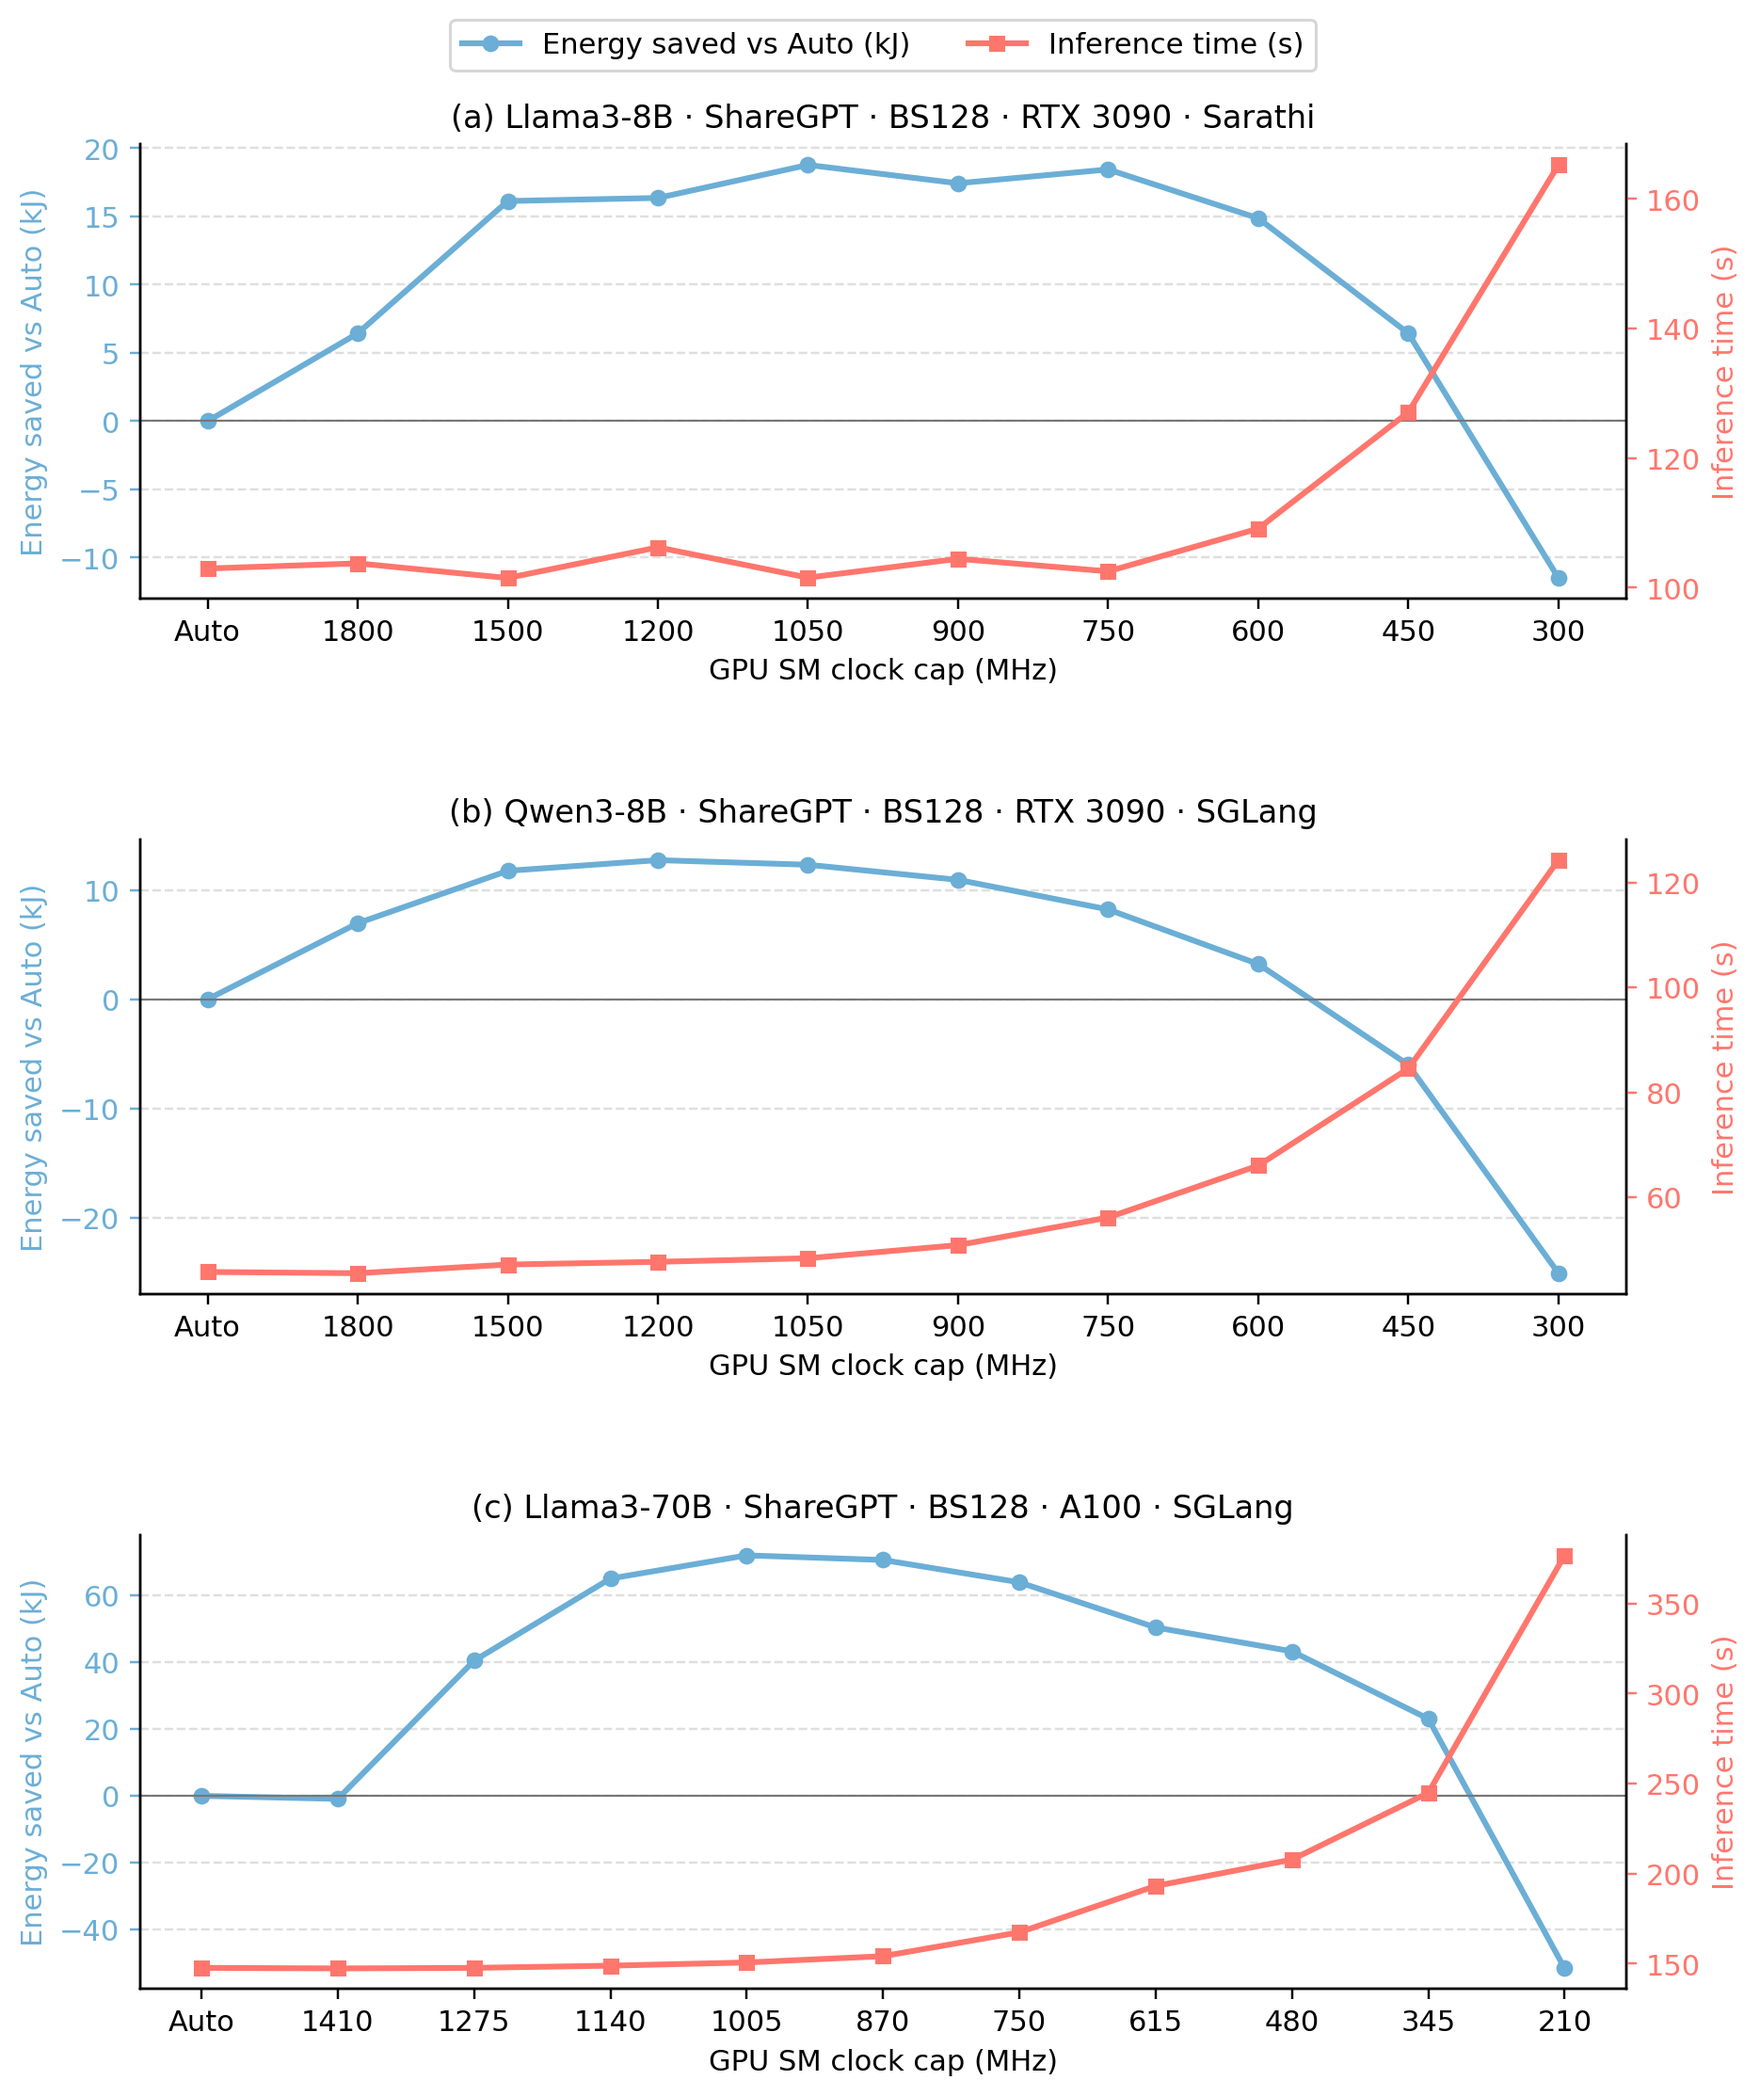
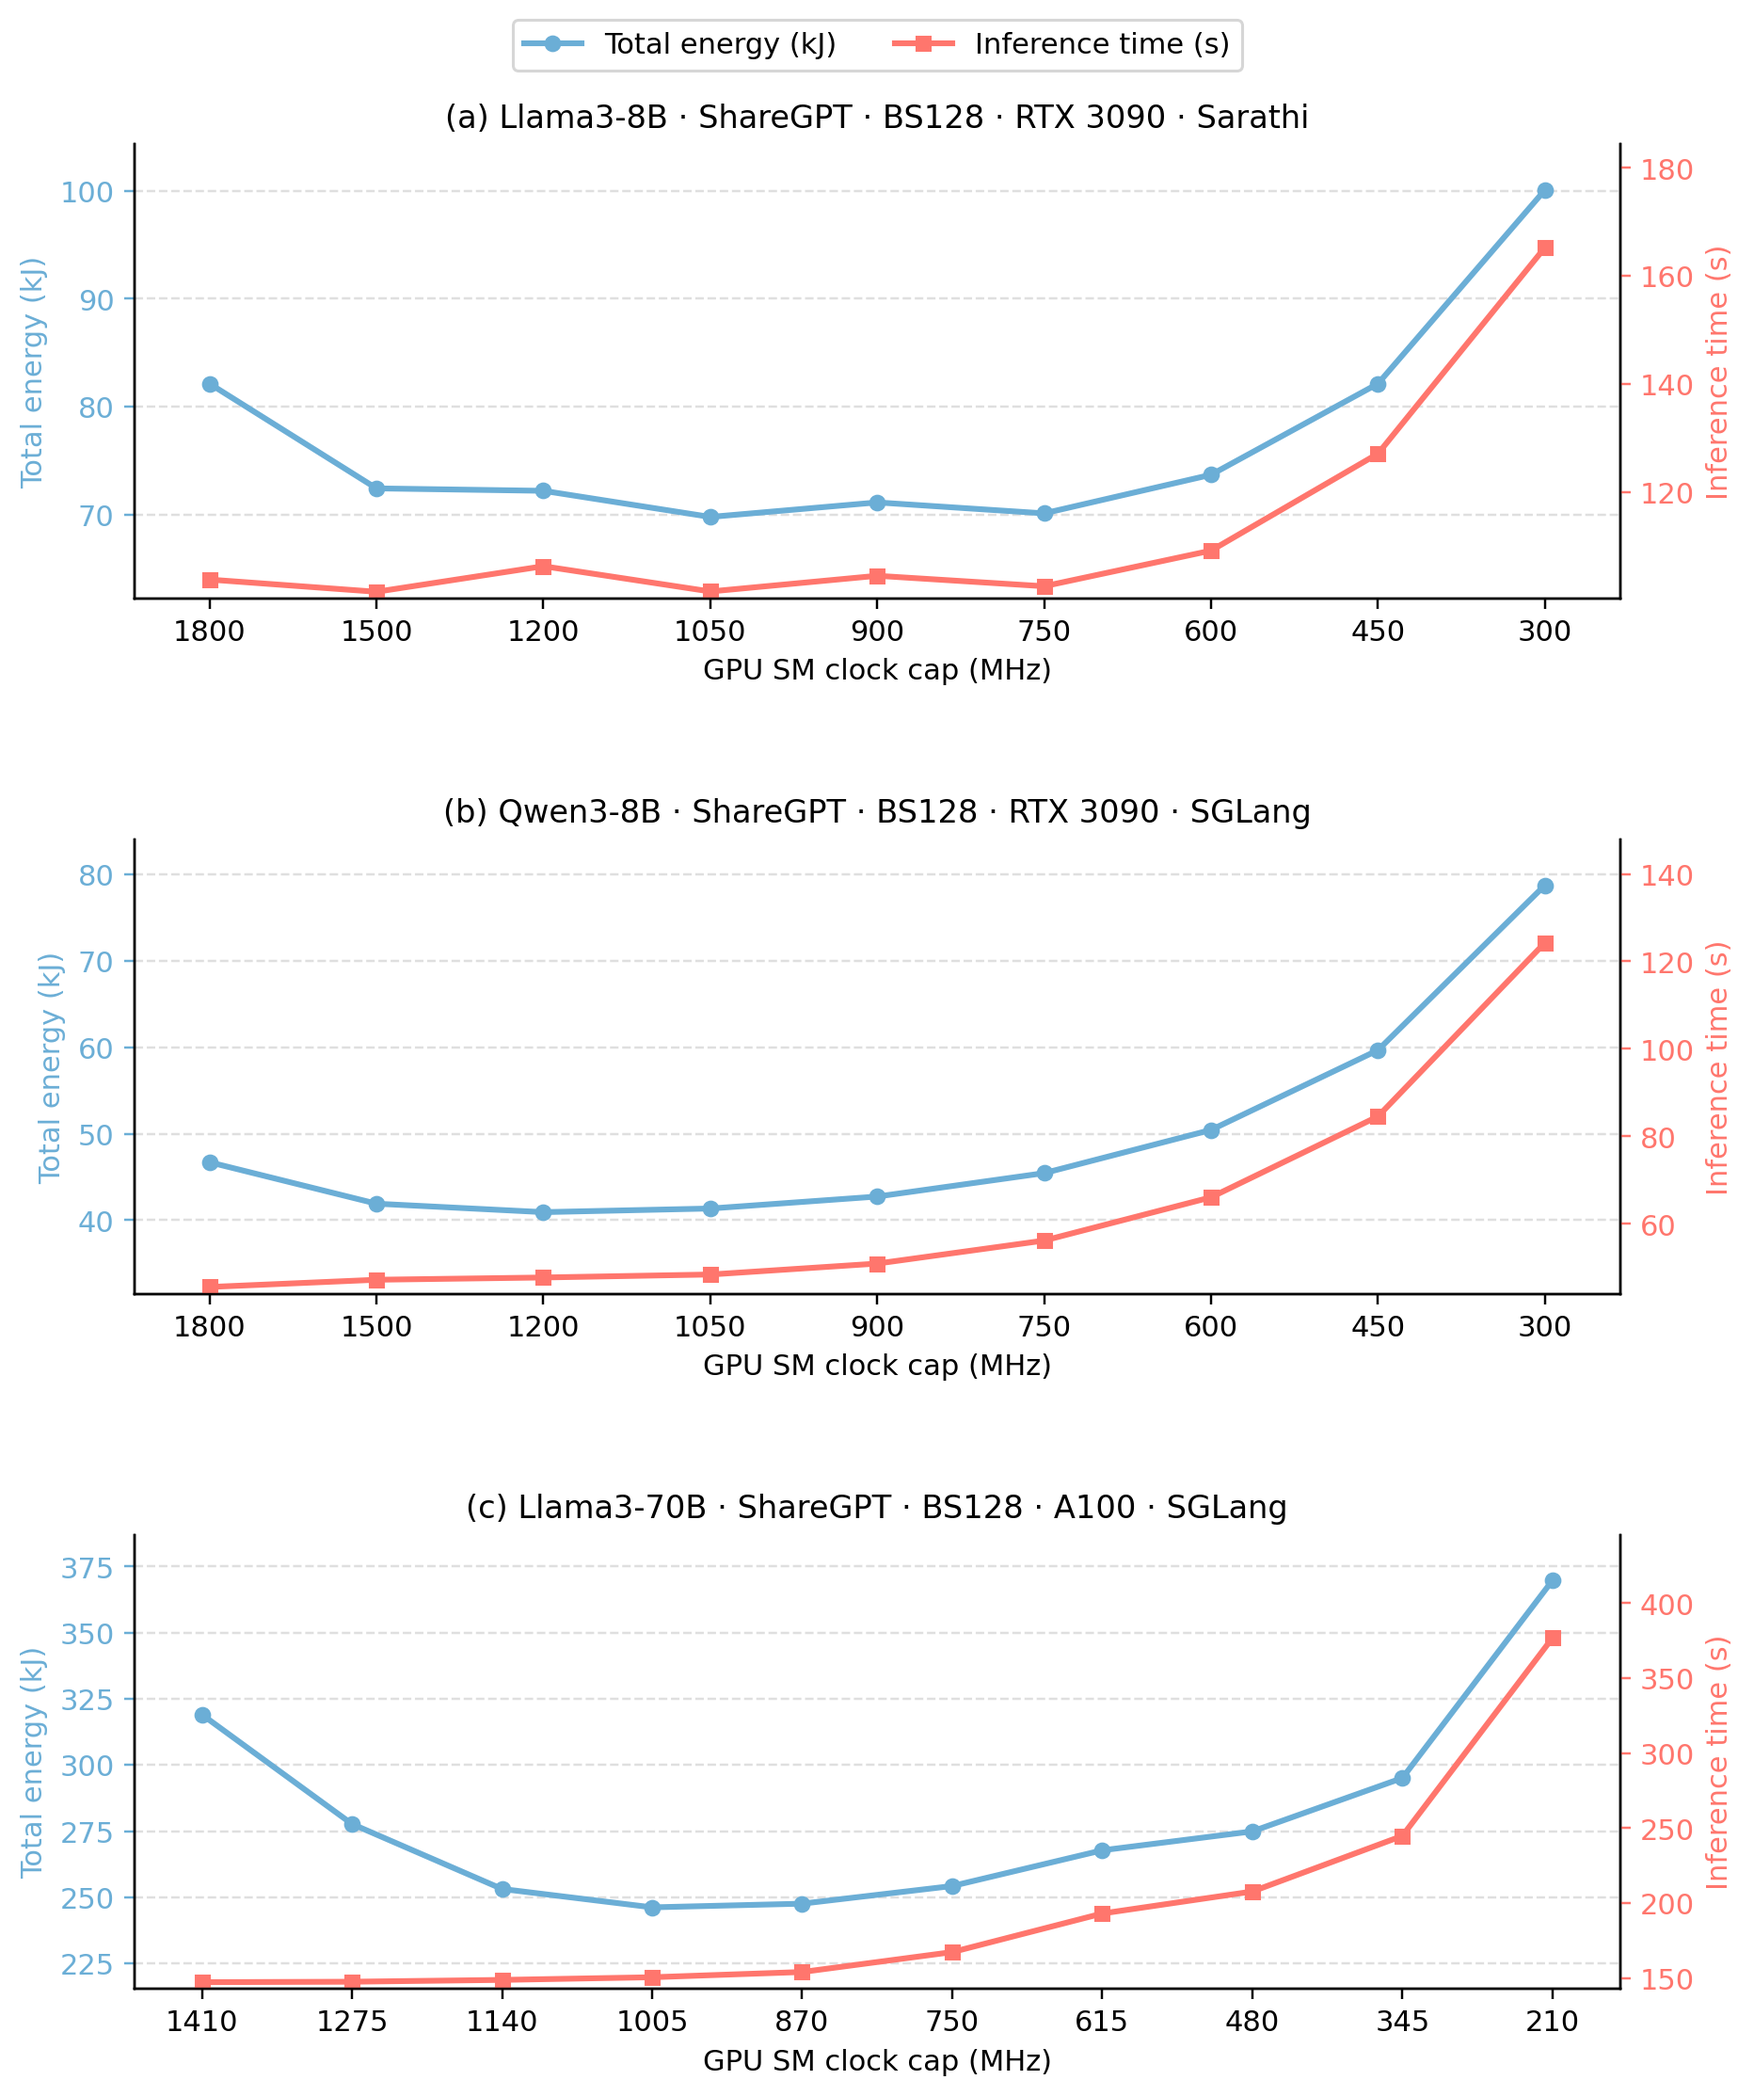
Show actual energy without Auto in Fig 11

diff --git a/figures/hcw_figures/fig11_sharegpt_three_models_bs128_20261018/plot.py b/figures/hcw_figures/fig11_sharegpt_three_models_bs128_20261018/plot.py
@@ -38,23 +38,29 @@ def load():
 
 
 def draw(ax, group, title):
-    rows = sorted(group, key=lambda row: (row["setting"] != "auto",
-                                          -int(row["frequency_mhz"] or 0)))
+    rows = sorted((row for row in group if row["setting"] != "auto"),
+                  key=lambda row: -int(row["frequency_mhz"]))
     x = np.arange(len(rows))
-    energy_line, = ax.plot(x, [float(row["energy_saved_vs_auto_kj"]) for row in rows],
+    energy = [float(row["energy_kj"]) for row in rows]
+    time = [float(row["inference_time_s"]) for row in rows]
+    energy_line, = ax.plot(x, energy,
                            "-o", color=ENERGY, lw=2, ms=4.8,
-                           label="Energy saved vs Auto (kJ)")
+                           label="Total energy (kJ)")
     right = ax.twinx()
-    time_line, = right.plot(x, [float(row["inference_time_s"]) for row in rows],
+    time_line, = right.plot(x, time,
                             "-s", color=TIME, lw=2, ms=4.5,
                             label="Inference time (s)")
-    ax.axhline(0, color="#777777", lw=0.7)
-    ax.set_xticks(x, ["Auto" if row["setting"] == "auto" else row["frequency_mhz"]
-                      for row in rows])
+    ax.set_xticks(x, [row["frequency_mhz"] for row in rows])
     ax.set_xlim(-0.45, len(rows) - 0.55)
+    energy_range = max(energy) - min(energy)
+    time_range = max(time) - min(time)
+    ax.set_ylim(max(0, min(energy) - max(1, energy_range * 0.25)),
+                max(energy) + max(1, energy_range * 0.14))
+    right.set_ylim(min(time) - max(1, time_range * 0.02),
+                   max(time) + max(1, time_range * 0.30))
     ax.set_title(title, fontsize=11)
     ax.set_xlabel("GPU SM clock cap (MHz)")
-    ax.set_ylabel("Energy saved vs Auto (kJ)", color=ENERGY)
+    ax.set_ylabel("Total energy (kJ)", color=ENERGY)
     right.set_ylabel("Inference time (s)", color=TIME)
     ax.tick_params(axis="y", colors=ENERGY)
     right.tick_params(axis="y", colors=TIME)
@@ -77,7 +83,7 @@ def main():
     fig.savefig(OUTPUT.with_suffix(".png"), dpi=220, bbox_inches="tight")
     fig.savefig(OUTPUT.with_suffix(".pdf"), bbox_inches="tight")
     plt.close(fig)
-    print(f"Saved {len(rows)} ShareGPT BS128 frequency points in three panels")
+    print(f"Saved {len(rows) - 3} capped-frequency points in three panels")
 
 
 if __name__ == "__main__":

diff --git a/figures/hcw_figures/README.md b/figures/hcw_figures/README.md
@@ -14,7 +14,7 @@ This folder holds the PDF and PNG figures generated for the local paper revision
 | Fig. 9 and Fig. 10 | `Fig9_*`, `Fig10_*` |
 | Fig. 9 current selection | `Fig9_energy_performance_three_models_output2_20261017.*` plots throughput decrease, which is the negative of the original throughput change; `fig9_throughput_decrease_20261018/` contains the script and selected values. |
 | Fig. 10 current selection | `Fig10_math_total_bubble_reduction_three_models_20261018.*` shows the three MATH model panels together; `fig10_total_interbatch_bubble_reduction/` contains the script and full-run gap-duration tables. |
-| Fig. 11 current selection | `Fig11_sharegpt_three_models_bs128_output2_20261018.*` shows all three models on ShareGPT BS128; `fig11_sharegpt_three_models_bs128_20261018/` contains the script and 31 values. Earlier two-panel and atlas previews remain available. |
+| Fig. 11 current selection | `Fig11_sharegpt_three_models_bs128_output2_20261018.*` shows all three models on ShareGPT BS128, plotting actual energy and time at fixed frequencies without Auto; `fig11_sharegpt_three_models_bs128_20261018/` contains the script and source values. Earlier two-panel and atlas previews remain available. |
 | Fig. 11 atlas energy axis | `Fig11_all_configs_atlas_output2_20261017.*` now shows measured total energy on the blue axis; `fig11_all_configs_atlas_actual_energy/` contains its script and values. |
 | Fig. 12 | `Fig12_random_five_point_fit_*` is the latest seeded random five-point fit; `Fig12_five_point_fit_*` and `Fig12_frequency_fit_*` preserve earlier fixed five-point and all-point versions. |
 | Energy and bubble reduction | `Energy_E2E_under_BatchSize_*`, `IDLE_Computing_under_BatchSize_*` |

diff --git a/figures/hcw_figures/fig11_sharegpt_three_models_bs128_20261018/README.md b/figures/hcw_figures/fig11_sharegpt_three_models_bs128_20261018/README.md
@@ -6,14 +6,14 @@
 - (b) Qwen3-8B / SGLang / RTX 3090;
 - (c) Llama3-70B / SGLang / A100.
 
-The blue line is measured total energy **saved relative to Auto** in kJ:
-`Auto energy − capped-frequency energy`. The red line is actual inference
-time in seconds. Auto therefore has zero energy saved. The earlier pale green
-frequency-selection band is omitted, consistent with the prior two-panel
-Fig. 11 selection. The two 8B model points average two runs per setting;
+The blue line is **measured total energy (kJ)** for each capped frequency;
+the red line is actual inference time (s). The Auto point is omitted from all
+three panels. The earlier pale green frequency-selection band remains omitted.
+The two 8B model points average two runs per setting;
 Llama3-70B uses one run per setting from `stage7_auto` (formerly `output2`).
 
-`values.csv` contains the 31 BS128 ShareGPT rows from
+`values.csv` contains the 31 BS128 ShareGPT rows, including Auto for data
+provenance, from
 `/home/hcw/LLM_pipeline_infer/analysis/fig11_all_configs_20261017/fig11_all_values.csv`.
 Run `python plot.py` to regenerate the figure from this snapshot. The paper's
 LaTeX source does not yet reference this preview.
